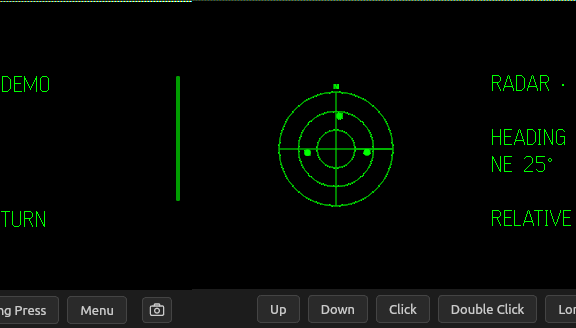
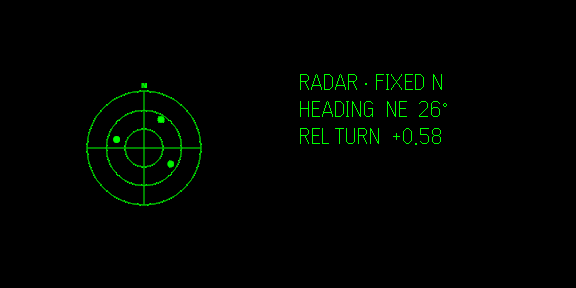
docs: refresh tracker simulator screenshot

diff --git a/README.md b/README.md
@@ -20,7 +20,7 @@ npm run demo
 
 The tester is showing the app's glasses layout while the dashboard feeds sample head turns into the radar.
 
-![Direction tracker running in the Even Hub virtual glasses simulator](even-hub-direction-tracker/simulator-demo.png)
+![Virtual G2 display showing the radar, heading, and relative turn](even-hub-direction-tracker/simulator-demo.png)
 
 ### Dashboard
 
